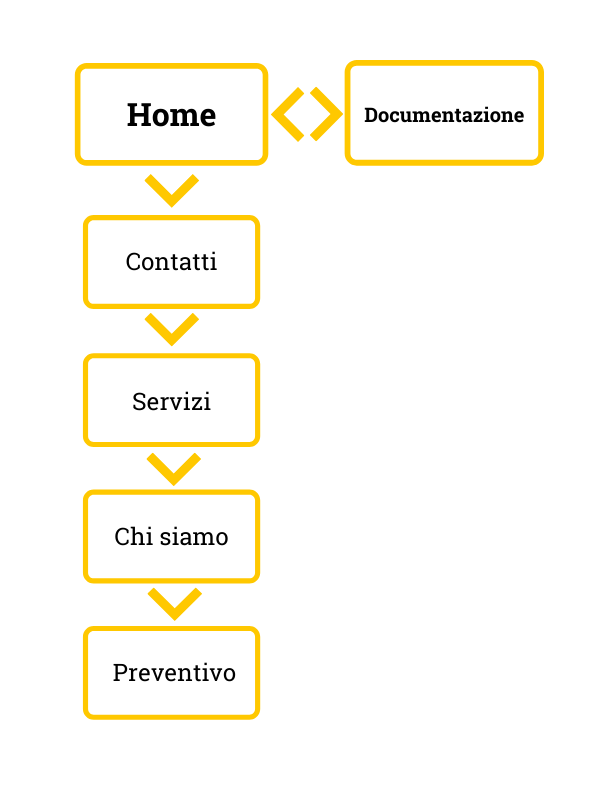
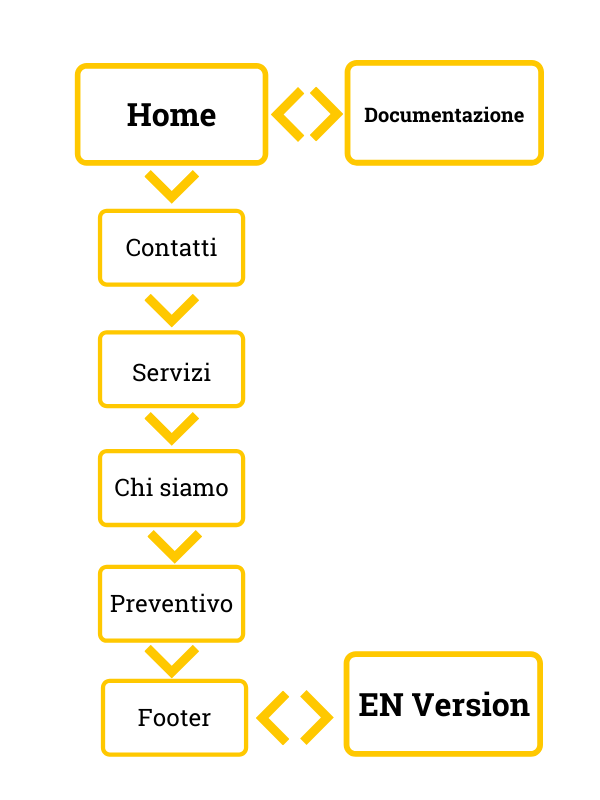
Versione SEMI ma ora in inglese
Cambia favicon. Prova a far funzionare il form. Rivedere documentazione, aggiungere ultimi due step. Ma ora è anche in inglese.

Changed region(s): [[0.12, 0.2188, 0.48, 0.9688], [0.51, 0.8125, 0.93, 0.9688]]

diff --git a/index_en.html b/index_en.html
@@ -1,0 +1,350 @@
+<!DOCTYPE html>
+<html lang="en">
+    <head>
+        <!-- Global site tag (gtag.js) - Google Analytics -->
+<script async src="https://www.googletagmanager.com/gtag/js?id=G-8CYZP2K68Z"></script>
+<script>
+  window.dataLayer = window.dataLayer || [];
+  function gtag(){dataLayer.push(arguments);}
+  gtag('js', new Date());
+  gtag('config', 'G-8CYZP2K68Z');
+</script>
+<script>
+/**
+* Funzione che acquisisce un clic su un link in uscita in Analytics.
+* Questa funzione prende in considerazione e utilizza una stringa dell'URL valido.
+* Come etichetta evento. L'impostazione del metodo di trasporto su 'beacon' consente l'invio dell'hit.
+* utilizzando 'navigator.sendBeacon' in un browser che lo supporta.
+*/
+var captureOutboundLink = function(url) {
+   ga('send', 'event', 'outbound', 'click', url, {
+     'transport': 'beacon',
+     'hitCallback': function(){document.location = url;}
+   });
+}
+</script>
+        <meta charset="utf-8" />
+        <meta name="viewport" content="width=device-width, initial-scale=1, shrink-to-fit=no" />
+        <meta name="description" content="" />
+        <meta name="author" content="" />
+        <title>Serra Autotrasporti</title>
+        <!-- Favicon-->
+        <link rel="icon" type="image/x-icon" href="assets/favicon.ico" />
+        <!-- Font Awesome icons (free version)-->
+        <script src="https://use.fontawesome.com/releases/v5.15.3/js/all.js" crossorigin="anonymous"></script>
+        <!-- Google fonts-->
+        <link href="https://fonts.googleapis.com/css?family=Montserrat:400,700" rel="stylesheet" type="text/css" />
+        <link href="https://fonts.googleapis.com/css?family=Roboto+Slab:400,100,300,700" rel="stylesheet" type="text/css" />
+        <!-- Core theme CSS (includes Bootstrap)-->
+        <link href="css/styles.css" rel="stylesheet" />
+        <link href="contact_me.js" rel="stylesheet" />
+        <link href="contact_me.php" rel="stylesheet" />
+    </head>
+    <body id="page-top">
+        <!-- Navigation-->
+        <nav class="navbar navbar-expand-lg navbar-dark fixed-top" id="mainNav">
+            <div class="container">
+                <a class="navbar-brand" href="#page-top">Serra Autotrasporti</a>
+                <button class="navbar-toggler" type="button" data-bs-toggle="collapse" data-bs-target="#navbarResponsive" aria-controls="navbarResponsive" aria-expanded="false" aria-label="Toggle navigation">
+                    Menu
+                    <i class="fas fa-bars ms-1"></i>
+                </button>
+                <div class="collapse navbar-collapse" id="navbarResponsive">
+                    <ul class="navbar-nav text-uppercase ms-auto py-4 py-lg-0">
+                        <li class="nav-item"><a class="nav-link" href="#services">Contacts</a></li>
+                        <li class="nav-item"><a class="nav-link" href="#portfolio">Services</a></li>
+                        <li class="nav-item"><a class="nav-link" href="#about">About Us</a></li>
+                        <li class="nav-item"><a class="nav-link" href="#contact">Price Quotation</a></li>
+                    </ul>
+                </div>
+            </div>
+        </nav>
+        <!-- Masthead-->
+        <header class="masthead">
+            <div class="container">
+                <div class="masthead-subheading">Fast deliveries throughout Europe</div>
+                <div class="masthead-heading text-uppercase">Serra Trasporti</div>
+                <a class="btn btn-primary btn-xl text-uppercase" href="#services">Find out more</a>
+            </div>
+        </header>
+        <!-- Services-->
+        <!-- TODO mappa che si apre in altra pagina -->
+        <section class="page-section" id="services">
+            <div class="container">
+                <div class="text-center">
+                    <h2 class="section-heading text-uppercase">How to contact us</h2>
+                </div>
+                <div class="row text-center">
+                    <div class="col-md-4">
+                        <span class="fa-stack fa-4x">
+                            <i class="fas fa-circle fa-stack-2x text-primary"></i>
+                            <i class="fas fa-phone-alt fa-stack-1x fa-inverse"></i>
+                        </span>
+                        <a href="tel:335203038" onclick="captureOutboundLink('tel:3335203038'); return false;" target="_blank"><h3 class="my-3"><p class="text-muted">+39 335203038</p></h3></a>
+                    </div>
+                    <div class="col-md-4">
+                        <span class="fa-stack fa-4x">
+                            <i class="fas fa-circle fa-stack-2x text-primary"></i>
+                           <i class="fas fa-map-marked-alt fa-stack-1x fa-inverse"></i>
+                        </span>
+                        <a href="https://goo.gl/maps/njj3ZVCb8AxtTe5H7" onclick="captureOutboundLink('https://goo.gl/maps/njj3ZVCb8AxtTe5H7'); return false;" target="_blank"><h3 class="my-3"><p class="text-muted"> Strada Asti Mare 4bis, Agliano Terme (AT)</p></h3></a>
+                    </div>
+                    <div class="col-md-4">
+                        <span class="fa-stack fa-4x">
+                            <i class="fas fa-circle fa-stack-2x text-primary"></i>
+                            <i class="fas fa-at fa-stack-1x fa-inverse"></i>
+                        </span>
+                        <a href="mailto:serratrasp@libero.it" onclick="captureOutboundLink('mailto:serratrasp@libero.it'); return false;" target="_blank"><h3 class="my-3"><p class="text-muted">serratrasp@libero.it</p></h3></a>
+                    </div>
+                </div>
+            </div>
+        </section>
+        <!-- Portfolio Grid-->
+        <section class="page-section bg-light" id="portfolio">
+            <div class="container">
+                <div class="text-center">
+                    <h2 class="section-heading text-uppercase">Our services</h2>
+                </div>
+                <div class="row">
+                    <div class="col-lg-4 col-sm-6 mb-4">
+                        <!-- Portfolio item 1-->
+                        <div class="portfolio-item">
+                            <a class="portfolio-link" data-bs-toggle="modal" href="#portfolioModal1">
+                                <div class="portfolio-hover">
+                                    <div class="portfolio-hover-content"><i class="fas fa-plus fa-3x"></i></div>
+                                </div>
+                                <img class="img-fluid" src="assets/img/portfolio/provafurgone.png" alt="furgone" />
+                            </a>
+                            <div class="portfolio-caption">
+                                <div class="portfolio-caption-heading">Delivery</div>
+                                <div class="portfolio-caption-subheading text-muted">In Italy and in Europe</div>
+                            </div>
+                        </div>
+                    </div>
+                    <div class="col-lg-4 col-sm-6 mb-4">
+                        <!-- Portfolio item 2-->
+                        <div class="portfolio-item">
+                            <a class="portfolio-link" data-bs-toggle="modal" href="#portfolioModal2">
+                                <div class="portfolio-hover">
+                                    <div class="portfolio-hover-content"><i class="fas fa-plus fa-3x"></i></div>
+                                </div>
+                                <img class="img-fluid" src="assets/img/portfolio/unpacco.jpg" alt="pacco" />
+                            </a>
+                            <div class="portfolio-caption">
+                                <div class="portfolio-caption-heading">Fast shipping</div>
+                                <div class="portfolio-caption-subheading text-muted">Guaranteed in 48h</div>
+                            </div>
+                        </div>
+                    </div>
+                    <div class="col-lg-4 col-sm-6 mb-4">
+                        <!-- Portfolio item 3-->
+                        <div class="portfolio-item">
+                            <a class="portfolio-link" data-bs-toggle="modal" href="#portfolioModal3">
+                                <div class="portfolio-hover">
+                                    <div class="portfolio-hover-content"><i class="fas fa-plus fa-3x"></i></div>
+                                </div>
+                                <img class="img-fluid" src="assets/img/portfolio/stradafocus.png" alt="strada" />
+                            </a>
+                            <div class="portfolio-caption">
+                                <div class="portfolio-caption-heading">Last minute delivery</div>
+                                <div class="portfolio-caption-subheading text-muted">Ready to take jobs at any time</div>
+                            </div>
+                        </div>
+                    </div>
+                    <div class="col-lg-4 col-sm-6 mb-4 mb-lg-0">
+                    </div>
+                </div>
+            </div>
+        </section>
+        <!-- About-->
+        <section class="page-section" id="about">
+            <div class="container">
+                <div class="text-center">
+                    <h2 class="section-heading text-uppercase">About us</h2>
+                </div>
+                <ul class="timeline">
+                    <li>
+                        <div class="timeline-image"><img class="rounded-circle img-fluid" src="assets/img/about/1.jpg" alt="..." /></div>
+                        <div class="timeline-panel">
+                            <div class="timeline-heading">
+                                <h3>1982</h3>
+                                <h4 class="subheading">The beginning</h4>
+                            </div>
+                            <div class="timeline-body"><p class="text-muted">Serra Autotrasporti (Serra Trucking) is a family company. We are registered in Italy's "Albo degli autotrasportatori"</p></div>
+                        </div>
+                    </li>
+                    <li class="timeline-inverted">
+                        <div class="timeline-image"><img class="rounded-circle img-fluid" src="assets/img/about/camera_commercio.png" alt="..." /></div>
+                        <div class="timeline-panel">
+                            <div class="timeline-heading">
+                                <h3>2017</h3>
+                                <h4 class="subheading">Loyalty to Work Award</h4>
+                            </div>
+                            <div class="timeline-body"><p class="text-muted">Asti Chamber of Commerce awards us the Loyalt to Work and Economic Progress Award for 35 years of service.</p></div>
+                        </div>
+                    </li>
+                    <li>
+                        <div class="timeline-image"><img class="rounded-circle img-fluid" src="assets/img/about/strada.png" alt="strada" /></div>
+                        <div class="timeline-panel">
+                            <div class="timeline-heading">
+                                <h3>Today</h3>
+                                <h4 class="subheading">We keep working</h4>
+                            </div>
+                            <div class="timeline-body"><p class="text-muted">We operate with three vans and we continue to travel throughout Europe.</p></div>
+                        </div>
+                    </li>
+                    <li class="timeline-inverted">
+                        <div class="timeline-image">
+                            <h4>
+                                Join
+                                <br />
+                                our
+                                <br />
+                                family!
+                            </h4>
+                        </div>
+                    </li>
+                </ul>
+            </div>
+        </section>
+        <!-- Contact-->
+        <section class="page-section" id="contact">
+            <div class="container">
+                <div class="text-center">
+                    <h2 class="section-heading text-uppercase">Request a quote</h2>
+                    <h3 class="section-subheading text-muted">We will contact you back as soon as possible!</h3>
+                </div>
+                <form id="contactForm">
+                    <div class="row align-items-stretch mb-5">
+                        <div class="col-md-6">
+                            <div class="form-group">
+                                <input class="form-control" id="name" type="text" placeholder="Your Name *" required="required" />
+                                <p class="help-block text-danger"></p>
+                            </div>
+                            <div class="form-group">
+                                <input class="form-control" id="email" type="email" placeholder="Your Email *" required="required" />
+                                <p class="help-block text-danger"></p>
+                            </div>
+                            <div class="form-group mb-md-0">
+                                <input class="form-control" id="phone" type="tel" placeholder="Your Telephone Number *" required="required" />
+                                <p class="help-block text-danger"></p>
+                            </div>
+                        </div>
+                        <div class="col-md-6">
+                            <div class="form-group form-group-textarea mb-md-0">
+                                <textarea class="form-control" id="message" placeholder="Your Request *" required="required"></textarea>
+                                <p class="help-block text-danger"></p>
+                            </div>
+                        </div>
+                    </div>
+                    <div class="text-center">
+                        <div id="success"></div>
+                        <button class="btn btn-primary btn-xl text-uppercase" id="sendMessageButton" type="submit">Send</button>
+                    </div>
+                </form>
+            </div>
+        </section>
+        <!-- Footer-->
+        <footer class="footer py-4">
+            <div class="container">
+                <div class="row align-items-center">
+                    <div class="col-lg-4 text-lg-start">
+                        Copyright &copy; Ethel Gallo
+                        <!-- This script automatically adds the current year to your website footer-->
+                        <!-- (credit: https://updateyourfooter.com/)-->
+                        <script>
+                            document.write(new Date().getFullYear());
+                        </script>
+                    </div>
+                    <div class="col-lg-4 my-3 my-lg-0">
+                        <a class="btn btn-dark btn-social mx-2" href="documentazione.html"><i class="fas fa-file"></i></a>
+                    </div>
+                    <div class="col-lg-4 text-lg-end">
+                        <a class="link-dark text-decoration-none me-3" href="#!">Privacy Policy</a>
+                        <a class="link-dark text-decoration-none" href="index.html">Versione Italiana</a>
+                    </div>
+                </div>
+            </div>
+        </footer>
+        <!-- Portfolio Modals-->
+        <!-- Portfolio item 1 modal popup-->
+        <div class="portfolio-modal modal fade" id="portfolioModal1" tabindex="-1" role="dialog" aria-hidden="true">
+            <div class="modal-dialog">
+                <div class="modal-content">
+                    <div class="close-modal" data-bs-dismiss="modal"><img src="assets/img/close-icon.svg" alt="Close modal" /></div>
+                    <div class="container">
+                        <div class="row justify-content-center">
+                            <div class="col-lg-8">
+                                <div class="modal-body">
+                                    <!-- Project details-->
+                                    <h2 class="text-uppercase">Delivery</h2>
+                                    <p class="item-intro text-muted">In Italy and Europe</p>
+                                    <img class="img-fluid d-block mx-auto" src="assets/img/portfolio/provafurgone.png" alt="furgone" />
+                                    <p>We deliver goods for third parties by road, in Italy and Europe. Our vans have a capacity of 15/35 q.l.</p>
+                                    <button class="btn btn-primary btn-xl text-uppercase" data-bs-dismiss="modal" type="button">
+                                        <i class="fas fa-times me-1"></i>
+                                        Close
+                                    </button>
+                                </div>
+                            </div>
+                        </div>
+                    </div>
+                </div>
+            </div>
+        </div>
+        <!-- Portfolio item 2 modal popup-->
+        <div class="portfolio-modal modal fade" id="portfolioModal2" tabindex="-1" role="dialog" aria-hidden="true">
+            <div class="modal-dialog">
+                <div class="modal-content">
+                    <div class="close-modal" data-bs-dismiss="modal"><img src="assets/img/close-icon.svg" alt="Close modal" /></div>
+                    <div class="container">
+                        <div class="row justify-content-center">
+                            <div class="col-lg-8">
+                                <div class="modal-body">
+                                    <!-- Project details-->
+                                    <h2 class="text-uppercase">Fast delivery</h2>
+                                    <p class="item-intro text-muted">In 24h or 48h</p>
+                                    <img class="img-fluid d-block mx-auto" src="assets/img/portfolio/unpacco.jpg" alt="pacco" />
+                                    <p>We specialize in last minute delivery.</p>
+                                    <button class="btn btn-primary btn-xl text-uppercase" data-bs-dismiss="modal" type="button">
+                                        <i class="fas fa-times me-1"></i>
+                                        Close
+                                    </button>
+                                </div>
+                            </div>
+                        </div>
+                    </div>
+                </div>
+            </div>
+        </div>
+        <!-- Portfolio item 3 modal popup-->
+        <div class="portfolio-modal modal fade" id="portfolioModal3" tabindex="-1" role="dialog" aria-hidden="true">
+            <div class="modal-dialog">
+                <div class="modal-content">
+                    <div class="close-modal" data-bs-dismiss="modal"><img src="assets/img/close-icon.svg" alt="Close modal" /></div>
+                    <div class="container">
+                        <div class="row justify-content-center">
+                            <div class="col-lg-8">
+                                <div class="modal-body">
+                                    <!-- Project details-->
+                                    <h2 class="text-uppercase">Ready to go</h2>
+                                    <p class="item-intro text-muted">Even at short notice</p>
+                                    <img class="img-fluid d-block mx-auto" src="assets/img/portfolio/stradafocus.png" alt="strada" />
+                                    <p>We can handle deliveries at short notice. </p>
+                                    <button class="btn btn-primary btn-xl text-uppercase" data-bs-dismiss="modal" type="button">
+                                        <i class="fas fa-times me-1"></i>
+                                        Close
+                                    </button>
+                                </div>
+                            </div>
+                        </div>
+                    </div>
+                </div>
+            </div>
+        </div>
+        <!-- Bootstrap core JS-->
+        <script src="https://cdn.jsdelivr.net/npm/bootstrap@5.0.1/dist/js/bootstrap.bundle.min.js"></script>
+        <!-- Core theme JS-->
+        <script src="js/scripts.js"></script>
+    </body>
+</html>

diff --git a/index.html b/index.html
@@ -261,7 +261,7 @@ var captureOutboundLink = function(url) {
                     </div>
                     <div class="col-lg-4 text-lg-end">
                         <a class="link-dark text-decoration-none me-3" href="#!">Privacy Policy</a>
-                        <a class="link-dark text-decoration-none" href="#!">Terms of Use</a>
+                        <a class="link-dark text-decoration-none" href="index_en.html">English Version</a>
                     </div>
                 </div>
             </div>
